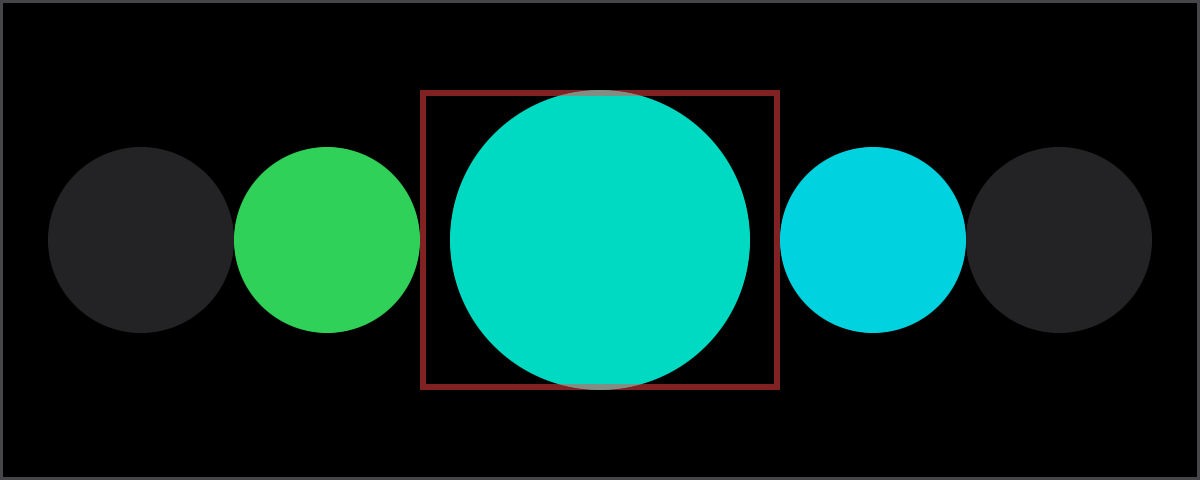
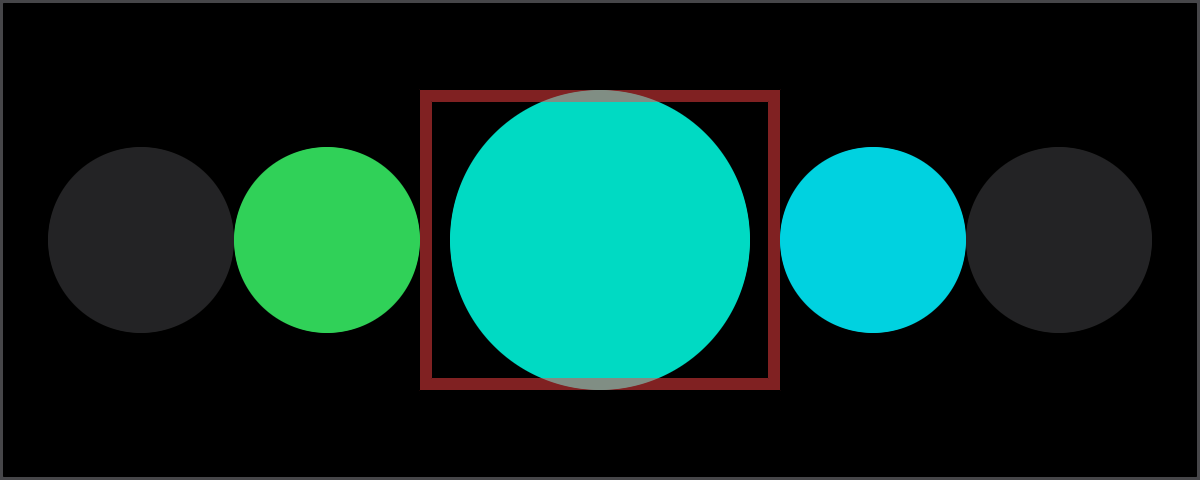
update border in illustrations

Changed region(s): [[0.3392, 0.1875, 0.6475, 0.8125]]

diff --git a/renders/OverlayAsDebugTool.swift b/renders/OverlayAsDebugTool.swift
@@ -36,7 +36,7 @@ struct OverlayAsDebugTool {
 
                     Circle().fill(.mint)
                     .frame(width: 120, height: 100)
-                    .border(.red.secondary, width: 2) // Highlight the frame of this view.
+                    .border(.red.secondary, width: 4) // Highlight the frame of this view.
 
                     Circle().fill(.teal)
                     Circle().fill(.gray.tertiary)
@@ -86,7 +86,7 @@ struct OverlayAsDebugTool {
                     .frame(width: 200, height: 100)
                     .overlay(alignment: .trailing) { // Border this view.
                         Rectangle()
-                        .strokeBorder(.red.secondary, lineWidth: 2)
+                        .strokeBorder(.red.secondary, lineWidth: 4)
                     }
 
                     Circle().fill(.gray.tertiary)
